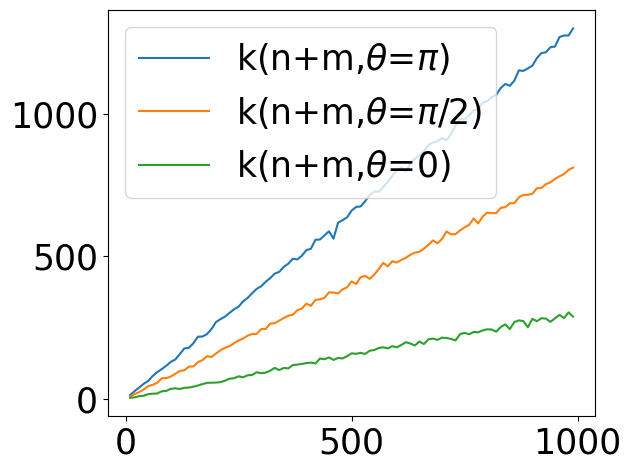
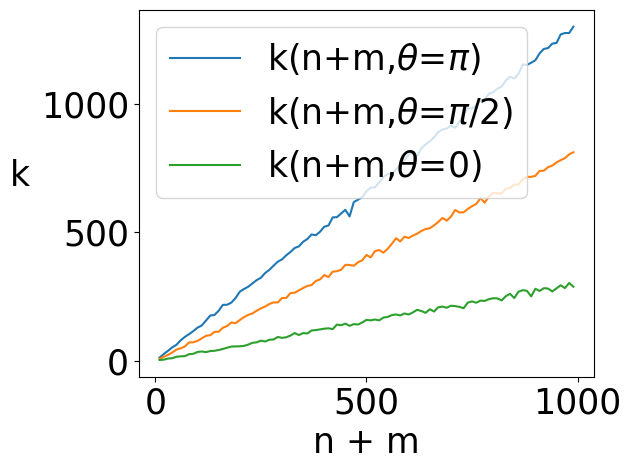
Add axis labels to figures

diff --git a/src/test/distance_k_n.py b/src/test/distance_k_n.py
@@ -75,6 +75,8 @@ def run(save_path=None, show_plot=True):
     ]
     for i, k_list in enumerate(k_lists_point_poly):
         plt.plot(N_LIST, k_list, label=labels[i])
+    plt.xlabel('n')
+    plt.ylabel('k', rotation=0, labelpad=15)
     plt.legend()
     plt.tight_layout()
     if save_path is not None:
@@ -92,6 +94,8 @@ def run(save_path=None, show_plot=True):
     ]
     for i, k_list in enumerate(k_lists_poly_poly):
         plt.plot([2 * n for n in N_LIST], k_list, label=labels[i])
+    plt.xlabel('n + m')
+    plt.ylabel('k', rotation=0, labelpad=15)
     plt.legend()
     plt.tight_layout()
     if save_path is not None:

diff --git a/src/test/distance_t_k.py b/src/test/distance_t_k.py
@@ -120,6 +120,8 @@ def run(save_path=None, show_plot=True):
     plt.plot(
         [kt[0] for kt in pl_pl_kts], [kt[1] for kt in pl_pl_kts],
         label=labels[1])
+    plt.xlabel('k')
+    plt.ylabel('t', rotation=0, labelpad=15)
     plt.legend()
     plt.tight_layout()
     if save_path is not None:
@@ -142,6 +144,8 @@ def run(save_path=None, show_plot=True):
     plt.plot(
         [kt[0] for kt in pl_pl_kts], [kt[1] for kt in pl_pl_kts],
         label=labels[1])
+    plt.xlabel('k')
+    plt.ylabel('t', rotation=0, labelpad=15)
     plt.legend()
     plt.tight_layout()
     if save_path is not None:
